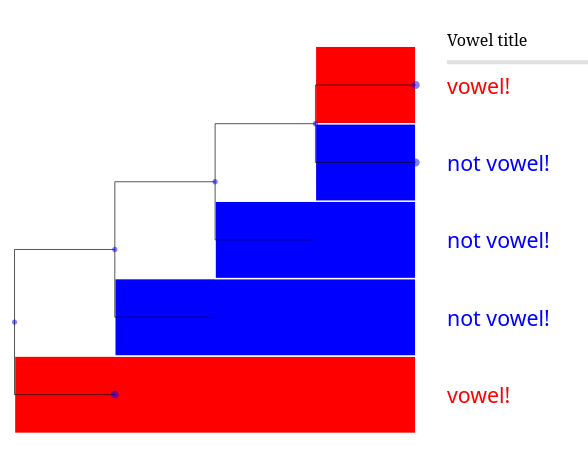
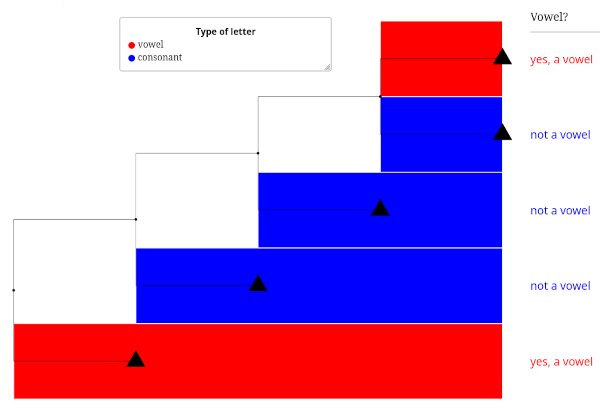
Nicer example in the smartview tutorial when combining styles and faces.

Changed region(s): [[0.0, 0.0293, 1.0, 0.9951], [0.398, 0.6732, 0.4592, 0.7317], [0.3367, 0.0585, 0.4286, 0.0878]]

diff --git a/doc/tutorial/tutorial_smartview.rst b/doc/tutorial/tutorial_smartview.rst
@@ -316,7 +316,7 @@ are objects of the class :class:`Layout <layout.Layout>`. They contain:
 - ``name``: Identifies the layout, so it can be activated/deactivated in the GUI.
 - ``draw_tree()``: A function that sets style and decorations for the full tree.
 - ``draw_node()``: A function that sets style and decorations for the given nodes.
-- ``cache_size``: The number of arguments cached when calling `draw_node` (defaults to all).
+- ``cache_size``: The number of nodes cached when calling `draw_node` (defaults to all).
 - ``active``: Whether the layout will be immediately active when exploring (defaults to True).
 
 Let's look at how to use them. The simplest case is::
@@ -731,16 +731,17 @@ Let's see an example combining styles and faces, for both the tree
 (with ``draw_tree``) and the nodes (with ``draw_node``)::
 
   from ete4 import Tree
-  from ete4.smartview import Layout, TextFace
+  from ete4.smartview import Layout, Decoration, TextFace, LegendFace
 
   t = Tree('((((a,b),c),d),e);')
 
   def draw_tree(tree):
-      yield Decoration(TextFace('Vowel title', fs_min=5, fs_max=12),
+      yield {'dot': {'opacity': 1, 'fill': 'black'}}
+      yield Decoration(TextFace('Vowel?', fs_min=6, fs_max=16),
                        position='header')
-      #yield Decoration(LegendFace('My legend',
-      #                            variable='discrete',
-      #                            colormap={'vowel': 'red', 'conostant': 'blue'}))
+      yield Decoration(LegendFace('Type of letter',
+                                  variable='discrete',
+                                  colormap={'vowel': 'red', 'consonant': 'blue'}))
 
   vowels = {'a', 'e', 'i', 'o', 'u'}
 
@@ -748,18 +749,18 @@ Let's see an example combining styles and faces, for both the tree
       if not node.is_leaf:
           return
 
+      yield {'dot': {'shape': 'triangle', 'radius': 8}}
+
       if node.name in vowels:
-          yield {'dot': {'radius': 3},
-                 'box': {'fill': 'red'}}
-          yield Decoration(TextFace('vowel!', style={'fill': 'red'}),
+          yield {'box': {'fill': 'red'}}
+          yield Decoration(TextFace('yes, a vowel', style={'fill': 'red'}),
                            position='aligned')
       else:
-          yield {'dot': {'radius': 3},
-                 'box': {'fill': 'blue'}}
-          yield Decoration(TextFace('not vowel!', style={'fill': 'blue'}),
+          yield {'box': {'fill': 'blue'}}
+          yield Decoration(TextFace('not a vowel', style={'fill': 'blue'}),
                            position='aligned')
 
-  layout = Layout('My layout', draw_tree=draw_tree, draw_node=draw_node)
+  layout = Layout('Vowels layout', draw_tree=draw_tree, draw_node=draw_node)
   t.explore(layouts=[layout])
 
 .. image:: ../images/combined.png
